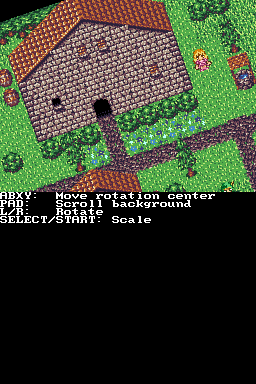
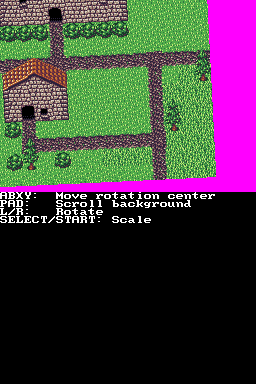
backgrounds: Small improvement to palette handling
Also, update the image of the non-extended affine background to reflect
the current example.

diff --git a/content/basic/backgrounds/index.md b/content/basic/backgrounds/index.md
@@ -89,14 +89,16 @@ PNG file. They are just text files with `.grit` extension. In this example, it
 looks like this:
 
 ```sh
-# 8 bpp, tiles, export map, not compressed
--gB8 -gt -m
+# 8 bpp, tiles, export map, not compressed, set magenta as transparent color
+-gB8 -gt -m -gTFF00FF
 ```
 
 `-gB8` tells grit to work in 8 bit per pixel mode. It will create one palette of
 256 colors. `-gt` tells grit to create a tiled map. `-m` tells grit to also
 export the tile map. The palette is exported by default (you can request it
-explicitly with `-p`).
+explicitly with `-p`). `-gTFF00FF` tells grit to treat color `FF00FF` (magenta)
+as transparent. If the image doesn't have any magenta pixel, it will be fully
+opaque.
 
 Now we need to see how to use the converted graphics. Each pair of `.png` and
 `.grit` files create a `.h` file that has to be included in the source code. In
@@ -157,8 +159,8 @@ There are only two differences you need to check. The first one is the grit
 file:
 
 ```sh
-# 4 bpp, tiles, export map, flat layout, not compressed
--gt -gB4 -mR4 -mLf
+# 4 bpp, tiles, export map, flat layout, not compressed, set magenta as transparent
+-gt -gB4 -mR4 -mLf -gTFF00FF
 ```
 
 And the second one is the way to setup the background (use `BgType_Text4bpp`
@@ -215,12 +217,17 @@ it you can rotate it, scale it and scroll it. It should look like this:
 We need to convert the image in a different way:
 
 ```sh
-# 8 bpp, tiles, export map, affine, not compressed
--gB8 -gt -m -mLa
+# 8 bpp, tiles, export map, affine, not compressed, set mangenta as transparent
+-gB8 -gt -m -mLa -gTFF00FF
 ```
 
 The difference is `-mLa`, which switches the background mode from regular format
 to affine format.
+
+Important: The maximum number of tiles supported by non-extended affine
+backgrounds is 256. This is a pretty strong limit and you will reach it before
+you realize. Remember to use extended backgrounds if you go over the limit, they
+are explained below.
 
 In the code, the main two differences are the video mode and the way in which
 you initialize the background:
